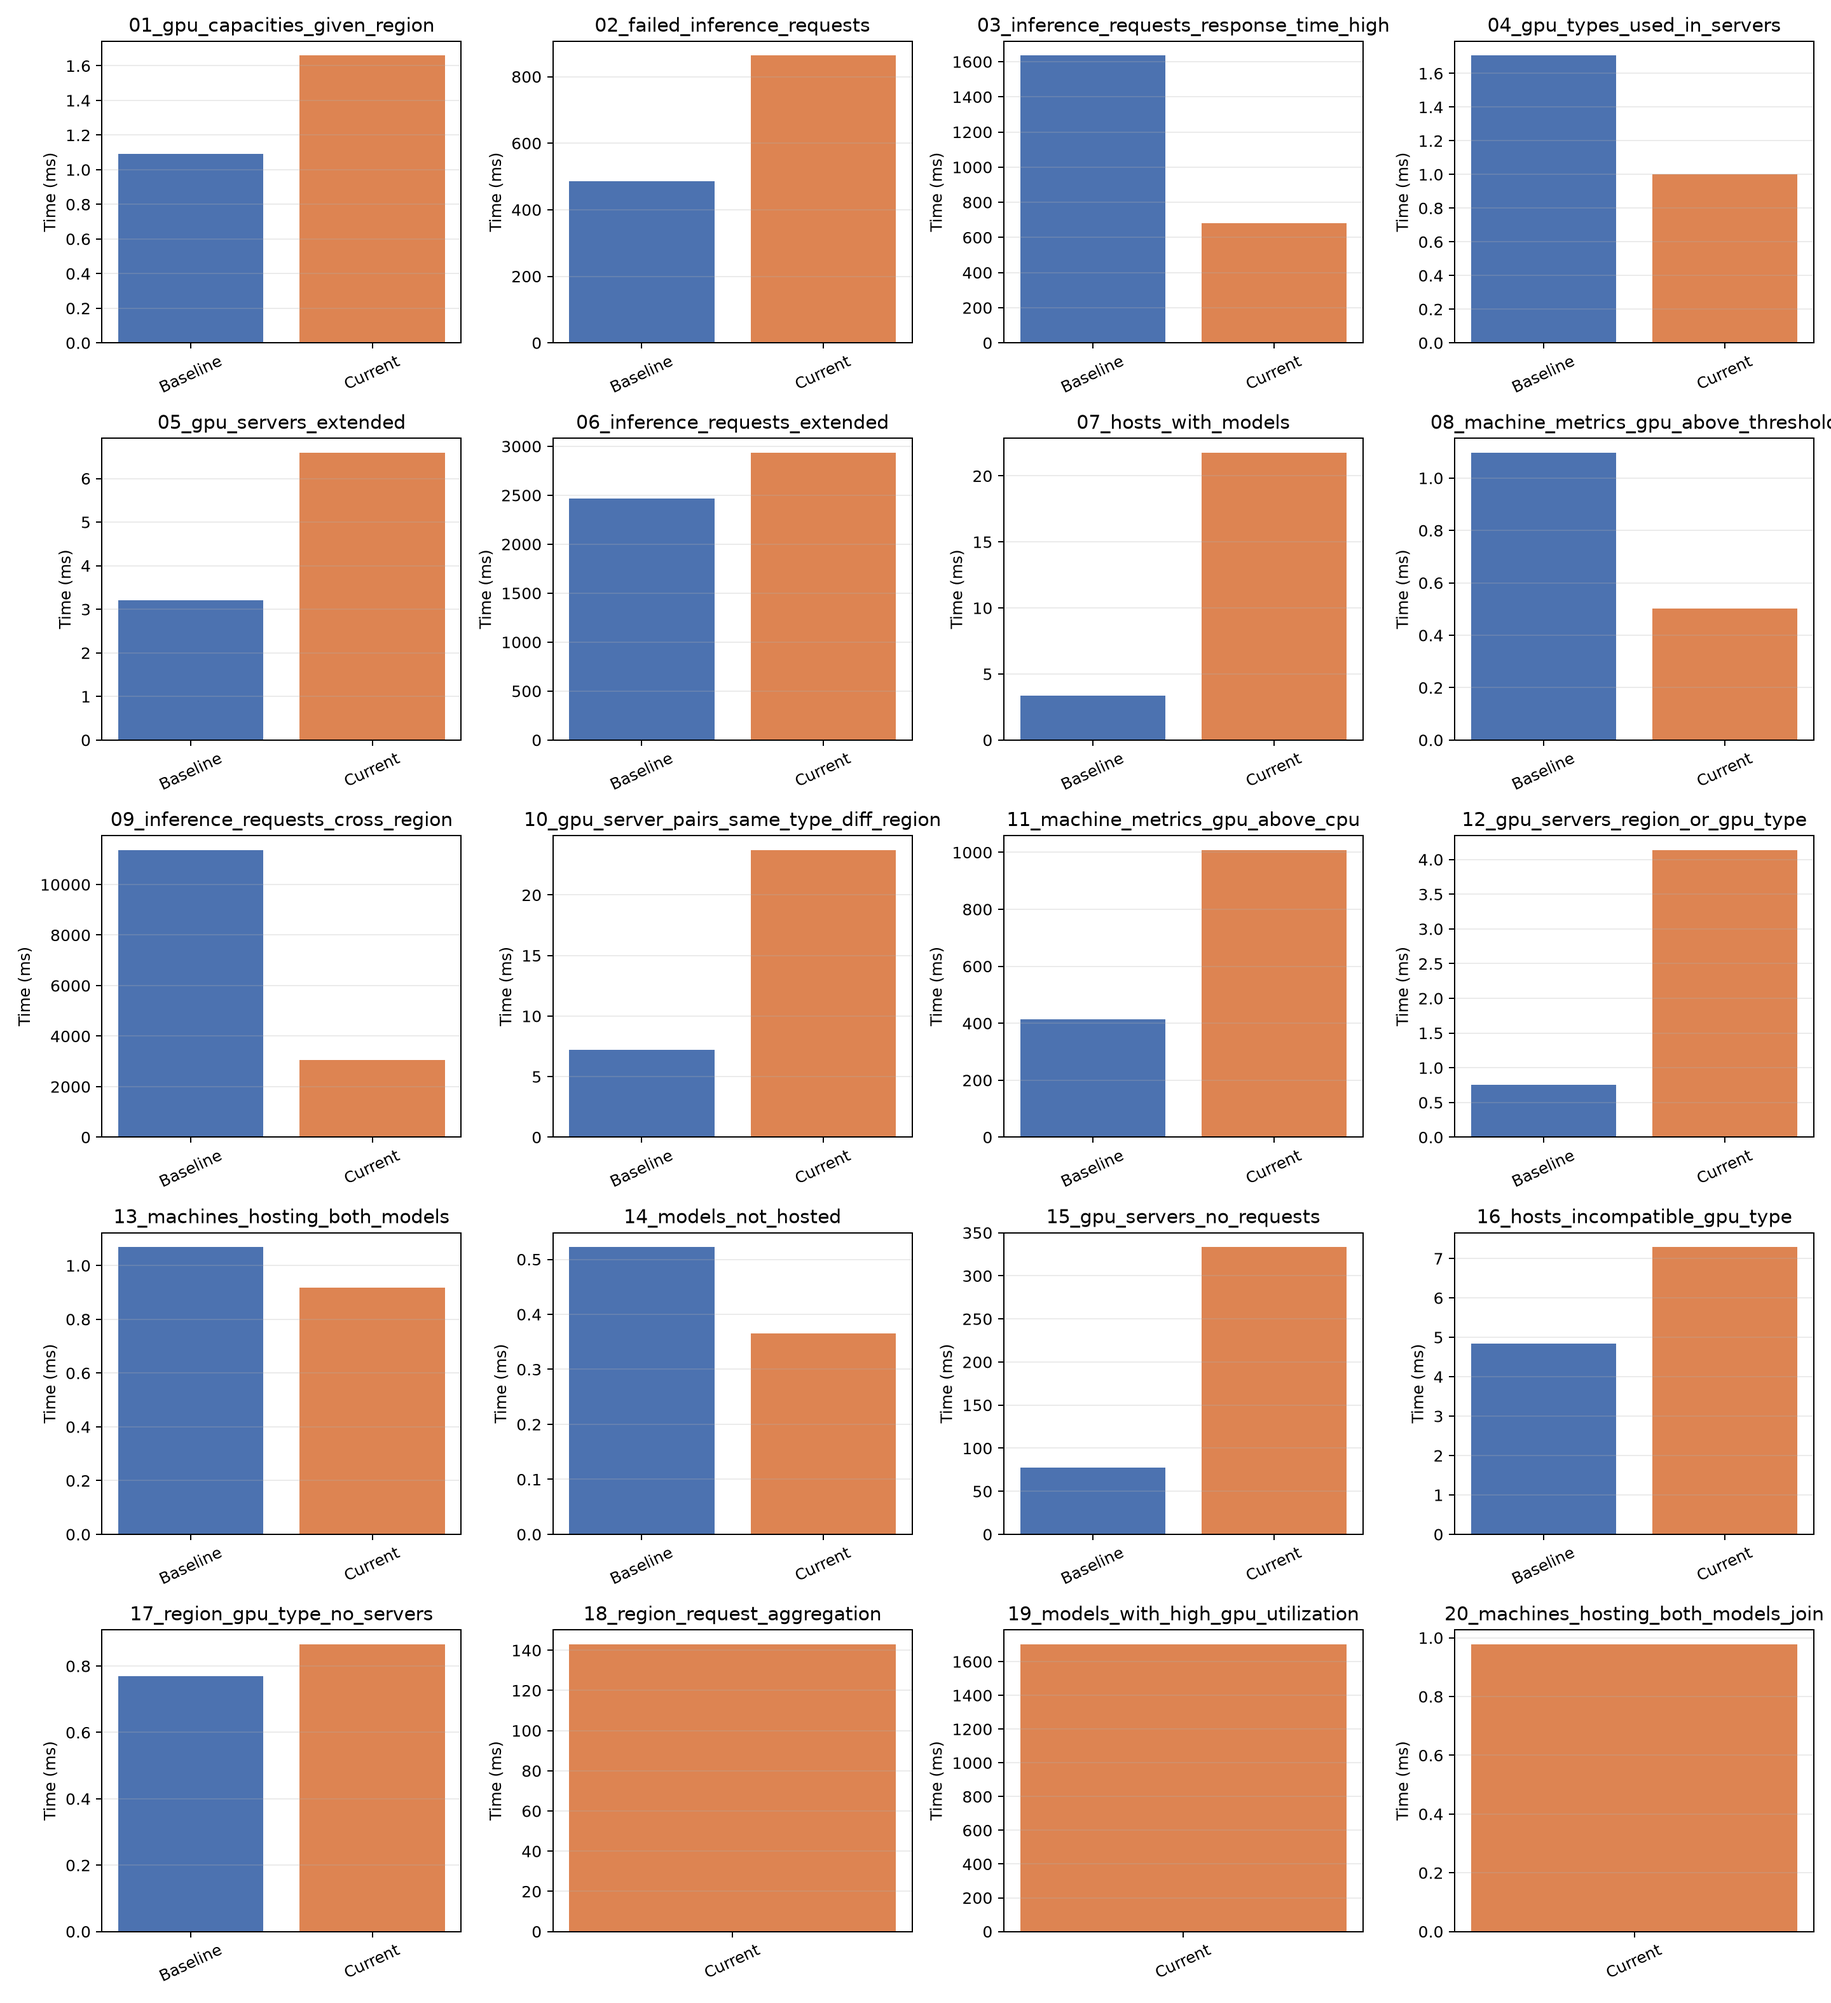
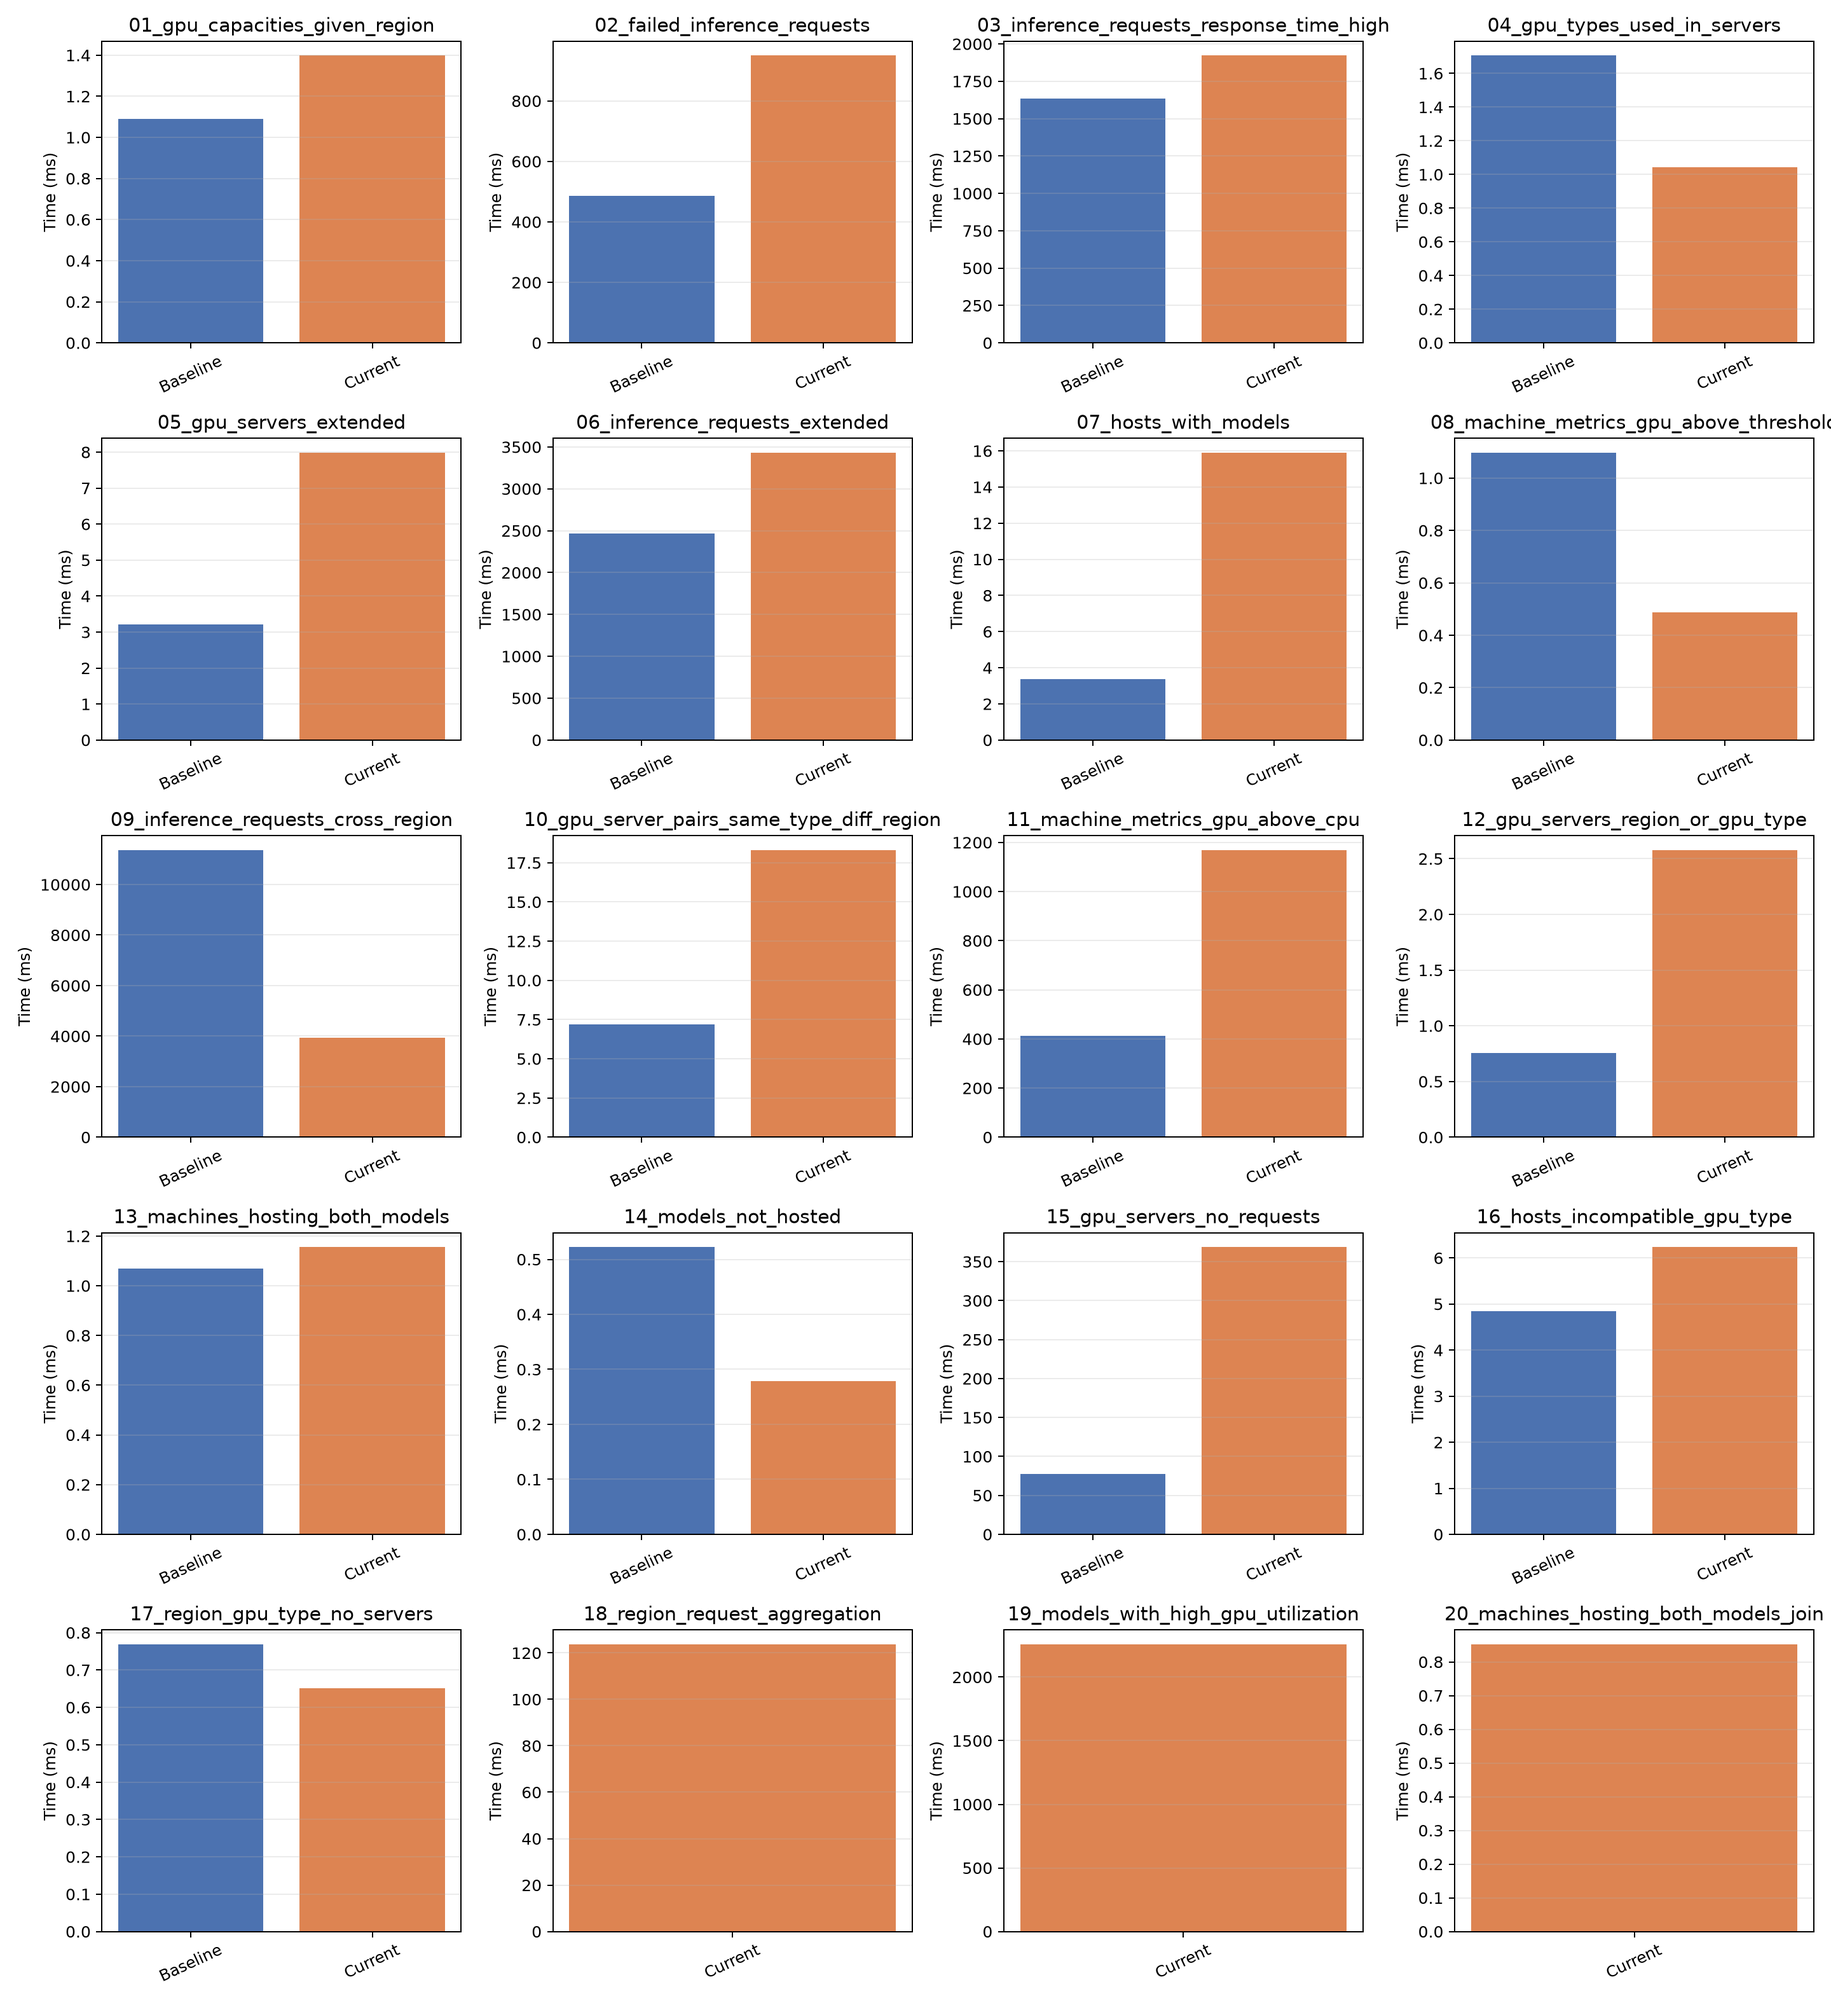
Dm/sprint 3 visual (#11)
* making improvments

* updating population script

* appling patch

* adding new query timings

* visual with optimized

diff --git a/src/mysql_population/populate.py b/src/mysql_population/populate.py
@@ -38,6 +38,12 @@ GPU_MEMORY_GB = {
     "V100M32": 32,
 }
 
+STATUS_ALIASES = {
+    "completed": "Terminated",
+    "waiting": "Running",
+}
+VALID_STATUSES = {"Failed", "Running", "Terminated"}
+
 
 def _csv(data_dir: Path, name: str) -> pd.DataFrame:
     """Read one trace CSV, accepting either data/ or data/raw/ layouts."""
@@ -63,6 +69,22 @@ def _integer(value: Any, fallback: int, rng: random.Random) -> int:
 
 def _text(value: Any, fallback: str) -> str:
     return fallback if pd.isna(value) or str(value).strip() == "" else str(value)
+
+
+def _status(value: Any, fallback: str) -> str:
+    """Normalize source statuses to the values allowed by the schema."""
+    status = _text(value, fallback).strip()
+    canonical = next(
+        (valid_status for valid_status in VALID_STATUSES
+         if valid_status.lower() == status.lower()),
+        STATUS_ALIASES.get(status.lower()),
+    )
+    if canonical is None:
+        raise ValueError(
+            f"Unsupported inference request status {status!r}; "
+            f"expected one of {sorted(VALID_STATUSES)}"
+        )
+    return canonical
 
 
 def build_rows(
@@ -145,7 +167,7 @@ def build_rows(
         model_name = model_names[(request_id - 1) % len(model_names)]
         machine_id = servers[(request_id - 1) % len(servers)][0]
         submitted = _number(row.start_time, 1_000_000, rng)
-        status = _text(row.status, rng.choice(["Completed", "Failed", "Running"]))
+        status = _status(row.status, rng.choice(sorted(VALID_STATUSES)))
         requests.append(
             (
                 request_id,

diff --git a/docs/Timing_Notes.md b/docs/Timing_Notes.md
@@ -35,6 +35,39 @@ python3 src/mysql_population/populate.py --database csc370 --user csc370user --p
 Run the script to execute the queries
 
 ```bash
-# Used default seed
-python3 src/benchmark_queries.py --runs 3 --database csc370 --user csc370user --password 'YourPassword123!'
+# Used default seed; run each query 7 times to reduce timing spikes
+python3 src/benchmark_queries.py --runs 7 --database csc370 --user csc370user --password 'YourPassword123!'
 ```
+
+## Query optimizations
+
+The following changes were made after reviewing the queries in
+`sql/queries/`:
+
+- Query 02 now filters with `WHERE ir.status = 'Failed'`, matching its
+  description instead of returning every inference request.
+- Queries 04 and 05 no longer join `GPUType` when no `GPUType` columns are
+  selected. `GPUServer.gpu_type_name` already references that table.
+- Query 19 now joins and groups model/server metrics once, then uses
+  `DISTINCT` to return each qualifying model once instead of running a
+  correlated aggregation for every model.
+- `sql/schema.sql` adds indexes for request status, request machine/region
+  lookups, response-time filtering plus region grouping, and machine metric
+  lookups by machine and GPU utilization.
+
+Recreate the database from `sql/schema.sql` or apply the indexes manually
+before benchmarking the optimized queries. Compare the plans and timings with:
+
+```bash
+mysql -u csc370user -p csc370 < sql/schema.sql
+python3 src/benchmark_queries.py \
+    --runs 7 \
+    --database csc370 \
+    --user csc370user \
+    --password 'YourPassword123!'
+```
+
+Use `EXPLAIN` or `EXPLAIN ANALYZE` on queries 02, 09, 18, and 19 to confirm
+that the optimizer uses the new indexes. The indexes improve possible access
+paths but do not guarantee that MySQL will choose them for every data
+distribution.

diff --git a/README.md b/README.md
@@ -43,7 +43,9 @@ inserts, and commits all tables in foreign-key order as one transaction.
 Missing values and fields not present in the trace are generated with a
 reproducible random seed (`--seed 370`). Defaults are capped at 500 GPU
 servers, 2,000 metrics, and 1,000 inference requests; adjust those limits
-with `--max-servers`, `--max-metrics`, and `--max-requests`.
+with `--max-servers`, `--max-metrics`, and `--max-requests`. Source request
+statuses are normalized to the schema values; for example, `Completed` is
+stored as `Terminated` and `Waiting` is stored as `Running`.
 
 ## Benchmark queries
 
